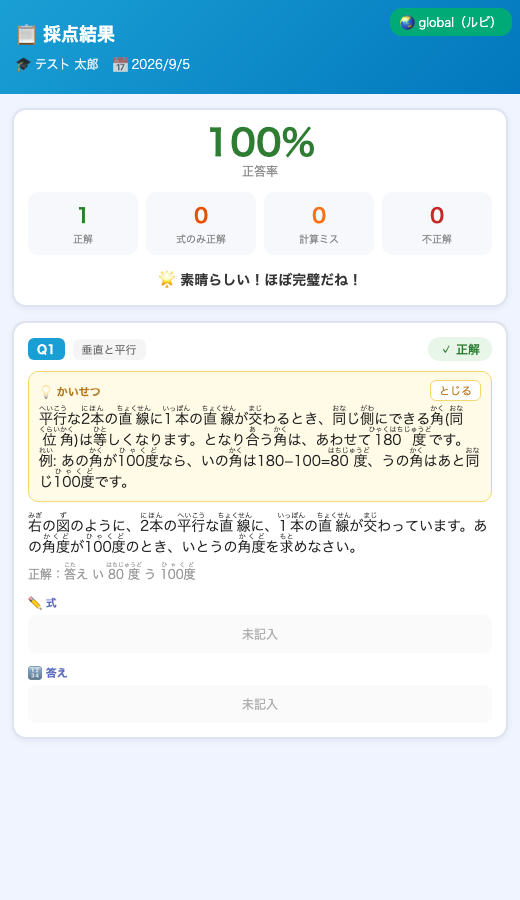
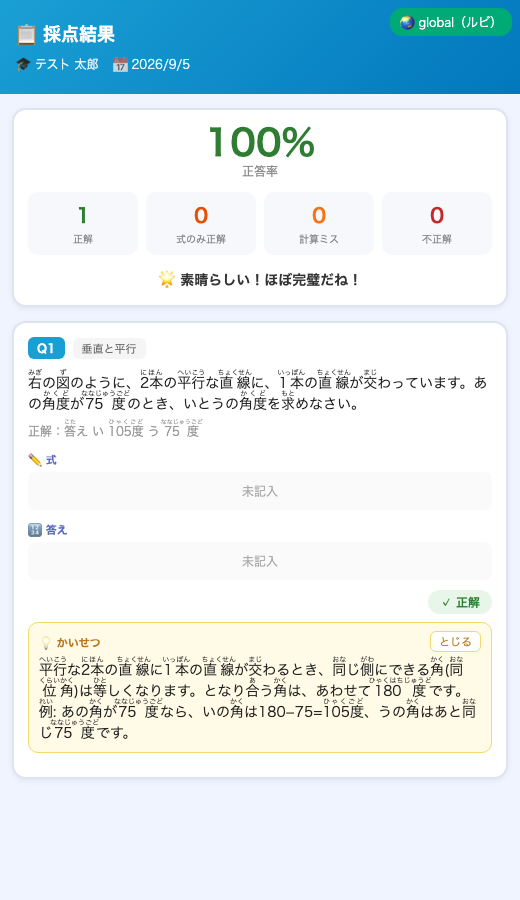
e-9修正: 解説ブロックを問題文→生徒の答え→正誤→解説の順へ・e-2のkaisetsuをFable本文で差し替え(golden g04 faa09237)
Claude-Session: https://claude.ai/code/session_017AoZZVL7xR8ZRqMs6p78A2

Changed region(s): [[0.0308, 0.3733, 0.9538, 0.84]]

diff --git a/result_view.html b/result_view.html
@@ -17,12 +17,13 @@
   .card-head { display: flex; align-items: center; gap: 8px; flex-wrap: wrap; margin-bottom: 10px; }
   .qnum { background: #1a9fd4; color: #fff; border-radius: 6px; padding: 2px 9px; font-size: 12px; font-weight: bold; }
   .unit { background: #f5f5f5; color: #666; border-radius: 6px; padding: 2px 9px; font-size: 11px; }
-  .badge { border-radius: 20px; padding: 3px 12px; font-size: 12px; font-weight: bold; margin-left: auto; }
+  .badge { border-radius: 20px; padding: 3px 12px; font-size: 12px; font-weight: bold; }
+  .result-row { display: flex; justify-content: flex-end; margin: 10px 0 8px; }   /* 正誤バッジ: 問題文→生徒の答え→正誤→解説 の順(まるこ修正) */
   .question-block { margin-bottom: 10px; }
   .question-text { font-size: 14px; line-height: 1.5; margin-bottom: 4px; }
   .answer-text { font-size: 12px; color: #999; }
   /* e-9 kaisetsu: 採点結果(正誤)の直下に自動展開する生徒向け解説。本文と同じフォント・行間(question-textと同一) */
-  .kaisetsu { background: #fffbe6; border: 1px solid #f5d76e; border-radius: 10px; padding: 8px 10px; margin-bottom: 10px; }
+  .kaisetsu { background: #fffbe6; border: 1px solid #f5d76e; border-radius: 10px; padding: 8px 10px; margin: 0 0 10px; }
   .kaisetsu-head { display: flex; align-items: center; justify-content: space-between; margin-bottom: 4px; }
   .kaisetsu-head .label { font-size: 11px; color: #b7791f; font-weight: bold; }
   .kaisetsu-toggle { font-size: 11px; color: #b7791f; background: #fff; border: 1px solid #f5d76e; border-radius: 6px; padding: 1px 8px; cursor: pointer; }
@@ -188,16 +189,7 @@ async function main() {
     html += '<div class="card-head">' +
       '<span class="qnum">Q' + (i + 1) + '</span>' +
       (p.unit || p.chapter ? '<span class="unit">' + esc(p.unit || p.chapter) + '</span>' : '') +
-      '<span class="badge" style="background:' + badge.bg + ';color:' + badge.color + '">' + badge.label + '</span>' +
     '</div>';
-
-    // e-9 kaisetsu: 正誤表示の直下に自動展開(正解・不正解とも)。「とじる」で折りたたみ可(既定=開)。無い問題は非表示(フォールバック無し)。
-    if (p.kaisetsu) {
-      html += '<div class="kaisetsu">' +
-        '<div class="kaisetsu-head"><span class="label">💡 かいせつ</span><button type="button" class="kaisetsu-toggle">とじる</button></div>' +
-        '<div class="kaisetsu-text">' + esc(String(p.kaisetsu)) + '</div>' +
-      '</div>';
-    }
 
     if (p.question) {
       html += '<div class="question-block">' +
@@ -210,6 +202,15 @@ async function main() {
     html += renderCanvasBlock('✏ 式', p.equation_canvas, redPen.equation);
     html += renderCanvasBlock('🔢 答え', p.answer_canvas, redPen.answer);
     html += '</div>';
+
+    // 正誤バッジ(生徒の答えの直後)→ e-9 kaisetsu(正誤の直下に自動展開・正解/不正解とも・「とじる」で折りたたみ可・既定=開・無い問題は非表示)
+    html += '<div class="result-row"><span class="badge" style="background:' + badge.bg + ';color:' + badge.color + '">' + badge.label + '</span></div>';
+    if (p.kaisetsu) {
+      html += '<div class="kaisetsu">' +
+        '<div class="kaisetsu-head"><span class="label">💡 かいせつ</span><button type="button" class="kaisetsu-toggle">とじる</button></div>' +
+        '<div class="kaisetsu-text">' + esc(String(p.kaisetsu)) + '</div>' +
+      '</div>';
+    }
 
     if (r && r.teacher_canvas) {
       html += '<div class="teacher-block">' +

diff --git a/pattern_bank/handoff_jhs/golden_ledger.md b/pattern_bank/handoff_jhs/golden_ledger.md
@@ -447,3 +447,7 @@
 - **関門**: kaisetsu_resolve.js新設(関門40: 解決/未解決{}ゼロ・JS=Python 930標本・retrofit完全性・backfill在庫計数)・furigana_coverageに`kaisetsu`包含(残存0)。furiganaパッチ21語(線/急/打/引/先/見/手前/迷/変/例/二次元/両方/決/総数/考/減/注目/側/幅/基準/挙)=3コピー同期・registered 493→517(重複2=折れ線/実線は登録済)。**全40関門GREEN**。
 - **golden md5: g04 b3f03491 → 9d909fc0**(解説93行の追加のみ・他行バイト不変)・g05/g06不変。**解説backfill在庫=531パターン**(kaisetsu無し: g01 46/g02 49/g03 57/g04 53/g05 76/g06 83/jhs 187)。
 - 目視素材: e9_shot_correct.png / e9_shot_incorrect.png(result_viewをモックデータで描画・海外モード=ルビ)→まるこ目視待ち。
+
+### 2026-09-04 e-9 受理・修正1件(解説位置)+e-2本文差し替え(Fable本文)
+- まるこ受理・改変5件承認。**位置修正**: 問題文→生徒の答え→正誤バッジ→解説→先生のコメント の順へ(バッジをヘッダから答えの直後の行へ移動・解説はその直下)。
+- e-2の2件(chokusen_kumi/chohokei_hen)をFable本文で差し替え(逐語・{base}=既存規則で{e1})。**golden g04 9d909fc0 → faa09237**(解説2行の差し替えのみ)。全40関門GREEN。スクショ2枚を同名再出力→まるこ再目視待ち。
